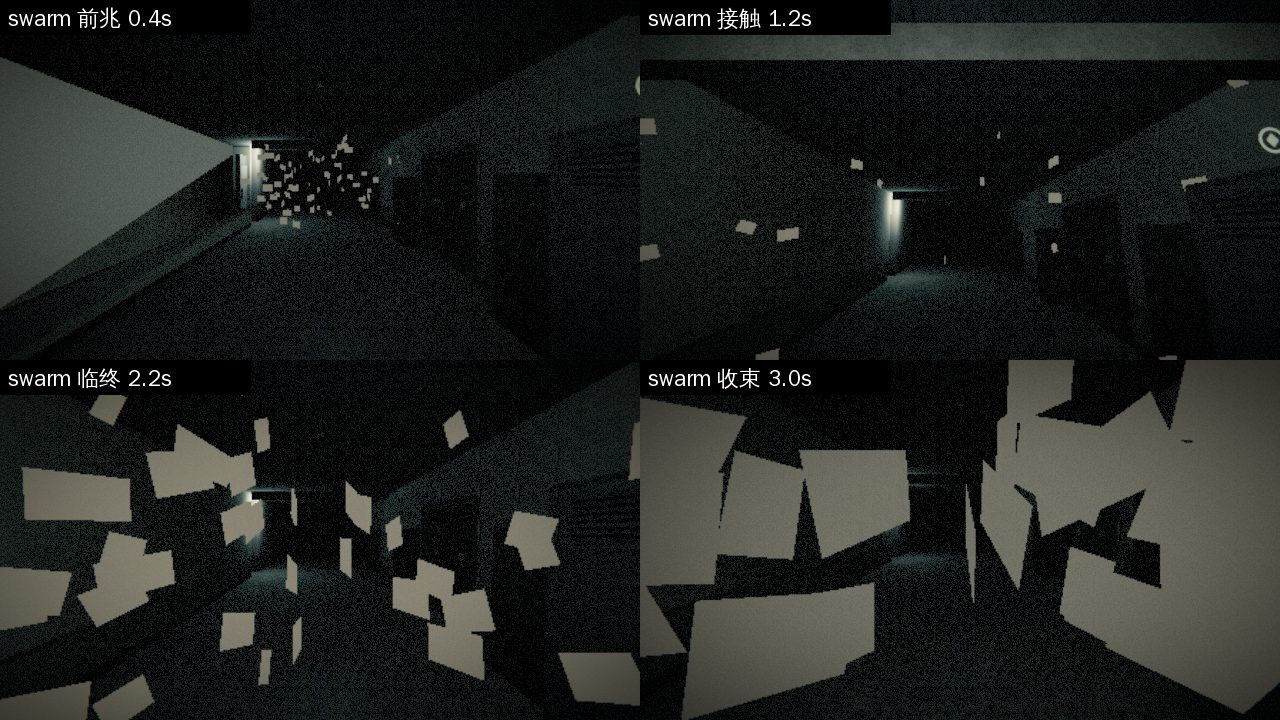
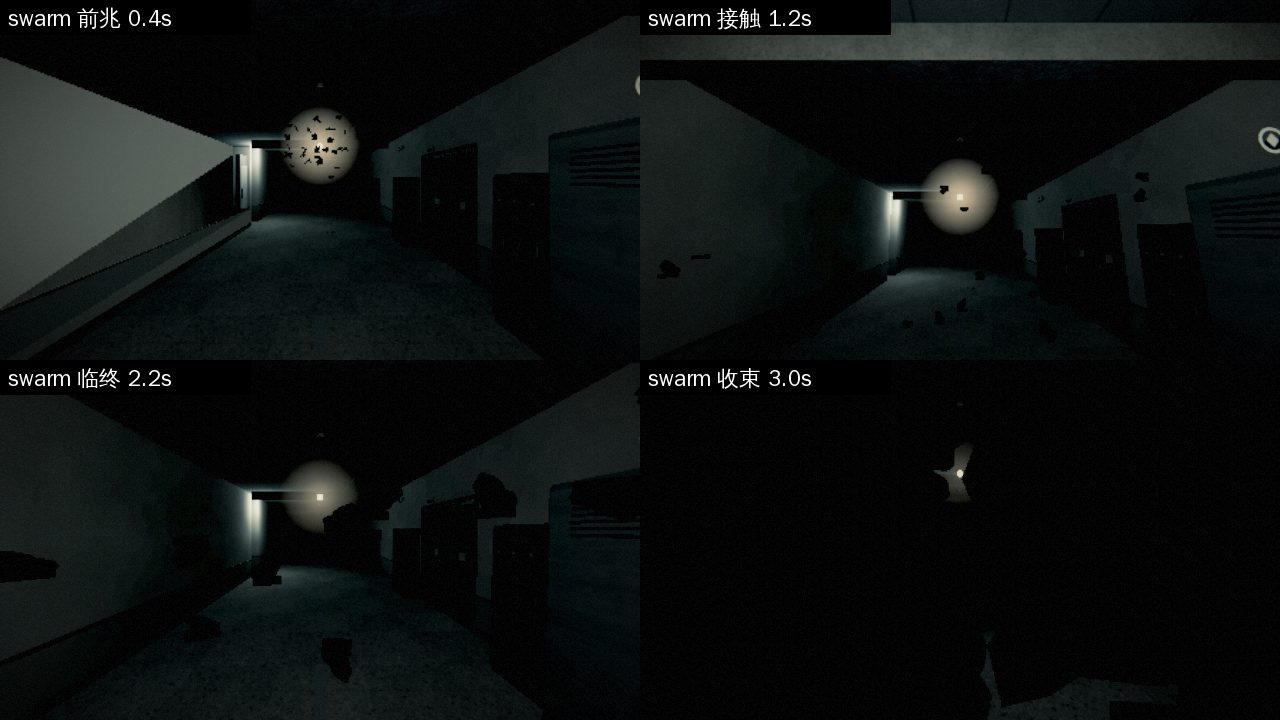
蛾群死亡演出：蛾子改回游戏里的黑色
重做死亡演出时把蛾子写成了灰白色的方片（0x8a7a62，为了暗处看得清），和 10 月 28 日定下的黑色蛾群冲突。
现在用和游戏里（weather.js）同一种蛾子：黑色翅膀 0x111111、黑色身子 0x080808、同样的翅膀形状，实例化一次画完。
为了黑蛾子看得清，按这个异象在游戏里的出场（「灯下面聚了一团飞蛾」）在蛾群起点吊一盏灯泡，
蛾子映在灯光里；扑到脸上时黑翅膀糊满镜头，只从缝里漏一点光。灯光复用已有的光斑贴图，不新增着色器。

- 新增测试 test_death_moths_are_black_like_the_in_game_swarm
- 重拍 pictures/死亡演出/ 里蛾群的两张四段图（中画质、最低画质）
- CG 计划分镜表、更新说明、截图索引同步

Claude-Session: https://claude.ai/code/session_011CA8sN38sG1RtaArdSjX9J

diff --git a/game3d/js/fx/death-cg.js b/game3d/js/fx/death-cg.js
@@ -238,25 +238,47 @@ var DeathCG=(function(){
   /* ---- swarm：蛾群。远处一团，绕成一根柱子把你围住，最后扑满镜头 ---- */
   CG.swarm={
     build:function(c){
-      var i,r=c.rand,geo=new THREE.PlaneGeometry(0.17,0.1),m=mat(0x8a7a62,undefined,{side:THREE.DoubleSide});      /* 灰白的蛾子，暗处也看得见 */
-      c.moths=[]; c.mothIM=c.inst(geo,m,70);                 /* 70 只蛾子一次画完 */
-      for(i=0;i<70;i++) c.moths.push({m:{a:r()*6.283,r:0.6+r()*1.6,h:0.4+r()*2.4,sp:1.6+r()*1.8,ph:r()*6.283}});
+      var i,r=c.rand,n=70;
+      /* 和游戏里的蛾群同一种：黑色的翅膀（前翅尖、后翅圆）+ 黑色的身子（weather.js），实例化一次画完 */
+      var ws=new THREE.Shape();
+      ws.moveTo(0,0.012); ws.lineTo(0.05,0.03); ws.lineTo(0.072,0.018); ws.quadraticCurveTo(0.06,-0.012,0.04,-0.016);
+      ws.quadraticCurveTo(0.03,-0.04,0.008,-0.03); ws.lineTo(0,-0.014); ws.lineTo(0,0.012);
+      var wing=new THREE.ShapeGeometry(ws,3); wing.rotateX(-Math.PI/2);
+      c.wingIM=c.inst(wing,mat(0x111111,undefined,{side:THREE.DoubleSide}),n*2);
+      c.bodyIM=c.inst(new THREE.BoxGeometry(0.016,0.016,0.06),mat(0x080808),n);
+      c.moths=[];
+      for(i=0;i<n;i++) c.moths.push({a:r()*6.283,r:0.35+r()*1.3,h:r()*0.9,sp:(r()<0.5?-1:1)*(1.6+r()*1.8),ph:r()*6.283,fl:26+r()*16});
+      /* 前兆：灯下面聚着一团（游戏里这个异象也是这么出场的）——黑的蛾子映在灯光里才看得见 */
+      c.box(0.008,0.5,0.008,0x111111,undefined,0,2.55,4.5);                        /* 吊灯的线 */
+      c.bulb=c.mesh(new THREE.SphereGeometry(0.06,10,8),mat(0xffe9c0,undefined,{fog:false}),0,2.26,4.5);
+      var tex=(typeof shadeTex==='function')?shadeTex('pool'):null;
+      c.glow=c.add(new THREE.Sprite(new THREE.SpriteMaterial({map:tex,color:0xffd9a0,transparent:true,depthWrite:false,fog:false,
+        blending:THREE.AdditiveBlending,opacity:0.7})),0,2.26,4.5);
+      c.glow.scale.set(1.5,1.5,1);                                                   /* 不碰到天花板，免得光晕被切出硬边 */
       c.veil(0x0c0905);
     },
     update:function(c,k,view){
       var gather=ss(k,0.4,1.4), close=ss(k,1.4,2.5), cover=ss(k,2.5,3.2);
       c.cam(view,k,0,0.22*gather*(1-close)-0.1*close+0.05*Math.sin(k*17)*close*c.shk,-0.35*cover);
-      var cy=c.camY(), a=new THREE.Vector3(), b=new THREE.Vector3(), q=new THREE.Vector3();
-      c.moths.forEach(function(o,i){
-        var m=o.m, ang=m.a+k*m.sp;
-        a.set(Math.cos(ang)*m.r*0.7, 1.6+(m.h-1.6)*0.6, 4.5+Math.sin(ang)*m.r*0.5);            /* 远处的一团 */
+      var cy=c.camY(), a=new THREE.Vector3(), b=new THREE.Vector3(), q=new THREE.Vector3(), o=c.mothO||(c.mothO=new THREE.Object3D());
+      o.rotation.order='YZX';
+      var sc=1.5+1.0*cover;                                                          /* 扑到脸上的时候显得大 */
+      c.moths.forEach(function(m,i){
+        var ang=m.a+k*m.sp;
+        a.set(Math.cos(ang)*m.r*0.6, 2.2+(m.h-0.45)*0.9+Math.sin(ang*1.7+m.ph)*0.12, 4.5+Math.sin(ang)*m.r*0.6);   /* 绕着灯 */
         var R=2.2*(1-close)+0.3+0.15*m.r, ang2=m.a+k*m.sp*1.6;
-        b.set(Math.cos(ang2)*R, m.h+(cy-m.h)*close*0.7, Math.sin(ang2)*R);                    /* 绕着你的柱子 */
+        b.set(Math.cos(ang2)*R, 0.6+m.h*2+(cy-0.6-m.h*2)*close*0.7, Math.sin(ang2)*R);   /* 绕着你的柱子 */
         q.lerpVectors(a,b,gather);
         if(cover>0){ q.lerp(new THREE.Vector3(Math.cos(ang2)*0.18,cy+Math.sin(ang2*1.3)*0.1,0.16+0.08*Math.sin(ang2)),cover*0.9); }
-        setI(c.mothIM,i,q.x,q.y,q.z,Math.sin(k*9+m.ph)*0.5,ang2,0,0.25+0.75*Math.abs(Math.sin(k*28+m.ph)),1,1);   /* 扑翅 */
+        var head=m.sp>0?-ang2:Math.PI-ang2, flap=Math.sin(k*m.fl+m.ph)*1.1+0.25;
+        o.position.copy(q); o.rotation.set(0,head,0); o.scale.set(sc,sc,sc); o.updateMatrix(); c.bodyIM.setMatrixAt(i,o.matrix);
+        o.rotation.set(0,head,flap); o.updateMatrix(); c.wingIM.setMatrixAt(i*2,o.matrix);
+        o.rotation.set(0,head,-flap); o.scale.set(-sc,sc,sc); o.updateMatrix(); c.wingIM.setMatrixAt(i*2+1,o.matrix);
       });
-      c.mothIM.instanceMatrix.needsUpdate=true;
+      c.wingIM.instanceMatrix.needsUpdate=true; c.bodyIM.instanceMatrix.needsUpdate=true;
+      /* 灯：蛾子从前面飞过时一明一暗；它们离开灯扑向你以后，灯也暗下去 */
+      var fl=0.8+0.2*Math.sin(k*23)*Math.sin(k*7.3);
+      c.glow.material.opacity=0.7*fl*(1-0.4*close)*(1-0.6*cover);                  /* 扑脸时还留一点光，看得出是一只只蛾子 */
       c.shade(0.85*ss(k,2.9,3.2));
     }
   };

diff --git a/tests/test_death_timeline.py b/tests/test_death_timeline.py
@@ -291,6 +291,18 @@ class DeathTimelineTest(BrowserCase):
         }""")
         self.assertEqual(result, {})
 
+    def test_death_moths_are_black_like_the_in_game_swarm(self):
+        """蛾群扑面的死亡演出用的是和游戏里同一种黑色蛾子（翅膀、身子都是黑的），不是灰白色的片。"""
+        page = self.page()
+        result = page.evaluate("""() => {
+          doEnterRoom('teach1');syncCamera(0);deathFX('swarm',{preview:true});anfxUpdate(0.5);
+          const moths=[];ANFX.grp.traverse(o=>{if(o.isInstancedMesh)moths.push({hex:o.material.color.getHex(),n:o.count});});
+          const g=ANFX.grp;anfxClear();ThreeBackend.disposeGroup(g);
+          return moths;
+        }""")
+        self.assertEqual(sorted(m['hex'] for m in result), [0x080808, 0x111111])   # 身子、翅膀，和 weather.js 一样
+        self.assertEqual(sorted(m['n'] for m in result), [70, 140])                 # 每只两片翅膀
+
     def test_warm_up_compiles_every_death_cinematic_shader_in_advance(self):
         """开局预热以后，第一次播放任何一种死亡演出都不用再现编着色器（手机上会在死的那一下卡住）。"""
         page = self.page()

diff --git a/pictures/README.md b/pictures/README.md
@@ -1,7 +1,7 @@
 # 测试截图
 
 - [校园电梯](校园电梯/)：教学楼候梯位置和轿厢内部，1000×700、无头 Chromium 软件 WebGL；为固定场景截图，不代表真实手机画质或性能。
-- [死亡演出](死亡演出/)：垃圾桶死亡的桶内视角，来自真实死亡入口，1000×700；黑影逼近（SAN 归零）重做后的两个时刻——围拢、贴近；正门路线的门缝 0.4 / 1.1 / 2.4 / 3.4 秒（漏光、挤过去、校门迎面、身前门合上）；翻墙路线 0.3 / 0.9 / 2.0 / 3.3 秒（面前的墙、翻上墙头看见下一道、一道道沉下去、两侧挤过来）；问路人 0.3 / 1.0 / 1.6 / 2.6 秒（背对着、转头、笑着的洞、走到面前）。黑板死亡修正后立在视线正前方（以前固定在场景的一个方向上，常在身后）。均为调试预览，960×540。另有 `四段_<死法>_<类型>.jpg` 共 20 张：每张是一种死法的前兆 / 接触 / 临终 / 收束四帧拼图（1280×720），墙外长脖子和做操在室外拍，其余在教学楼走廊。之后补了 `四段_垃圾桶_trash.jpg`（桶里往上看 → 盖子合上 → 漏光、敲两下 → 黑），以及 `最低画质_四段_<死法>_<类型>.jpg` 五张（熄灯、暴雨、蛾群、拍肩、垃圾桶在最低画质下的四段，和中画质构图一致）。无头 Chromium 软件 WebGL；真机手机画面仍待补充。
+- [死亡演出](死亡演出/)：垃圾桶死亡的桶内视角，来自真实死亡入口，1000×700；黑影逼近（SAN 归零）重做后的两个时刻——围拢、贴近；正门路线的门缝 0.4 / 1.1 / 2.4 / 3.4 秒（漏光、挤过去、校门迎面、身前门合上）；翻墙路线 0.3 / 0.9 / 2.0 / 3.3 秒（面前的墙、翻上墙头看见下一道、一道道沉下去、两侧挤过来）；问路人 0.3 / 1.0 / 1.6 / 2.6 秒（背对着、转头、笑着的洞、走到面前）。黑板死亡修正后立在视线正前方（以前固定在场景的一个方向上，常在身后）。均为调试预览，960×540。另有 `四段_<死法>_<类型>.jpg` 共 20 张：每张是一种死法的前兆 / 接触 / 临终 / 收束四帧拼图（1280×720），墙外长脖子和做操在室外拍，其余在教学楼走廊。之后补了 `四段_垃圾桶_trash.jpg`（桶里往上看 → 盖子合上 → 漏光、敲两下 → 黑），以及 `最低画质_四段_<死法>_<类型>.jpg` 五张（熄灯、暴雨、蛾群、拍肩、垃圾桶在最低画质下的四段，和中画质构图一致）。蛾群的两张在 11 月 1 日重拍：蛾子改回和游戏里一样的黑色，灯泡下聚成一团。无头 Chromium 软件 WebGL；真机手机画面仍待补充。
 - [驾驶追逐](驾驶追逐/)：固定进度下的道路、障碍与驾驶 HUD，1000×700、无头 Chromium 软件 WebGL；不是自然长局或真机性能证明。
 - [传送门探索](传送门探索/)：物理实验室隧道入口，1000×700、无头 Chromium 软件 WebGL；为固定场景截图。
 - [前情光影](前情光影/)：同一机位的闭眼前与醒来后，触发真实前情转场并在闪光消退后截图；1000×700、无头 Chromium 软件 WebGL。

diff --git a/docs/plan/全死亡方式与结局CG重制、隐藏触发时刻校准.md b/docs/plan/全死亡方式与结局CG重制、隐藏触发时刻校准.md
@@ -169,7 +169,7 @@
 | `neck` | 围墙外的行人 | 墙头露出半个头 | 脖子一节节往上长，抬头跟着看 | 头从高处弯下来正对着你 | 你被拎离地面，脸贴到眼前 | 3.4 |
 | `shadow` | 影子慢一拍 | 脚下的影子拉长、慢半拍地晃 | 影子从地上立起来 | 一步步走过来 | 走进你身体里，全黑 | 3.2 |
 | `twin` | 窗外的楼在动、天台的第二个你 | 远处站着一个和你一样歪着头的人 | 踩着步子走过来 | 停在一臂远，俯身看你 | 走进你，变黑 | 3.2 |
-| `swarm` | 蛾群 | 远处一团蛾子 | 绕成柱子把你围住 | 收紧到头边，镜头发颤 | 扑满镜头 | 3.2 |
+| `swarm` | 蛾群 | 前方吊着的灯泡下聚着一团黑色的蛾子 | 绕成柱子把你围住 | 收紧到头边，镜头发颤 | 黑翅膀扑满镜头，只从缝里漏一点灯光 | 3.2 |
 | `shatter` | 车棚齐鸣 | 一排车铃一起抖、一起响 | 一个个炸开（一次轻闪） | 碎片停在你四周 | 一起扎进来 | 3.2 |
 | `drown` | 大暴雨 | 雨，低头看水漫过脚踝 | 水涨到腰 | 没过头顶，抬头看水面，气泡往上 | 往下沉，变暗 | 3.4 |
 | `water` | 天花板渗水、雨点成字 | 抬头看见水渍晕开、开始滴水 | 越滴越密，天花板鼓出水泡 | 水泡垂到脸上 | 水里变暗 | 3.4 |
@@ -203,6 +203,7 @@
 
 - 声音节拍：钟（第十三下）、走廊与熄灯（每灭一盏一声）、伸手、另一个你、拍肩身后的笑、笑脸贴脸都按分镜节拍出声。
 - 垃圾桶（`trash`）改为四段：桶里往上看 → 盖子合上 → 桶沿漏一圈光、外面在 1.9 秒和 2.35 秒各敲一下 → 黑；旧的假结局过场删除。截图 `pictures/死亡演出/四段_垃圾桶_trash.jpg`。
+- 蛾群颜色修正（2026-11-01）：第二轮把演出里的蛾子写成了灰白色的方片（为了暗处看得清），和 10 月 28 日定下的「蛾群是黑色的」冲突。现在用和游戏里同一种蛾子——黑色翅膀 `0x111111`、黑色身子 `0x080808`、同样的翅膀形状；为了看得清，按游戏里这个异象的出场（「灯下面聚了一团飞蛾」）在蛾群起点吊一盏灯泡，黑蛾子映在灯光里。新增测试 `test_death_moths_are_black_like_the_in_game_swarm`。
 - 最低画质对比：熄灯、暴雨、蛾群、拍肩、垃圾桶五种在最低画质下的四段截图（`pictures/死亡演出/最低画质_四段_*.jpg`）与中画质构图一致，四段都看得清。
 
 **M3 结局分镜**（`game3d/js/cutscene.js`）

diff --git a/docs/3D更新说明.md b/docs/3D更新说明.md
@@ -685,5 +685,6 @@ PR #11 收尾时统计了各档的顶点数，合并以后按最新代码（main
 - 死亡演出看过 0.6 秒后，点一下或按空格 / 回车 / Esc 可以跳过，直接到死亡界面或预知梦惊醒；跳过和播完只结算一次，触屏点跳过的那一下不会按到随后出现的按钮。分镜里的声音按节拍只响一次（钟的第十三下、走廊和熄灯一盏盏灭、伸手、拍肩身后的笑等）。
 - 垃圾桶死亡改为四段式（桶里往上看 → 盖子合上 → 漏光、外面敲两下 → 黑），旧的假结局过场删除。
 - 结局演出按新分镜重做：闸门（车库点火、车灯里站着它，切到北门外黑影追出来，接驾驶）、白名单（闸机变白，门里的人一个个站出来目送）、门（充能、光圈、后退半步再走进去）；修正目送的人上下颠倒、镜头穿墙。
+- 修正：蛾群扑面的死亡演出之前把蛾子做成了灰白色的方片，和游戏里定下的黑色蛾群不一致；改回和游戏里同一种黑色蛾子（翅膀、身子都是黑的），在蛾群起点吊一盏灯泡，黑蛾子映在灯光里看得清，最后黑翅膀扑满镜头。
 - 性能：蛾群、碎片、雨和气泡、冰锥改为实例化，围观、走廊门框、车把、名单墙改为合并网格，演出期间额外绘制次数最多从 +126 降到 +21；开局和继续游戏后预先编译死亡演出用到的材质，第一次死亡时不再现编着色器；各演出共用的材质不再随每次清场释放。
 - 逐项记录、手机模拟数据和未完成项（安卓真机、实机试听）见 [CG 计划](plan/全死亡方式与结局CG重制、隐藏触发时刻校准.md)第三轮记录。
